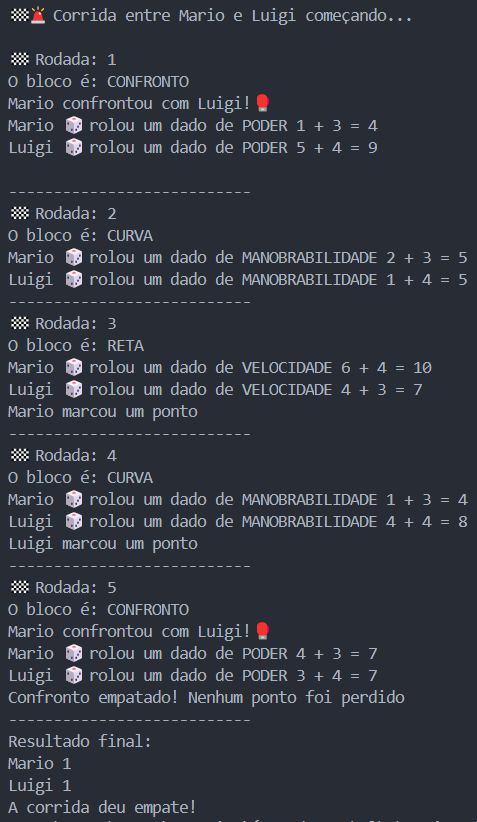
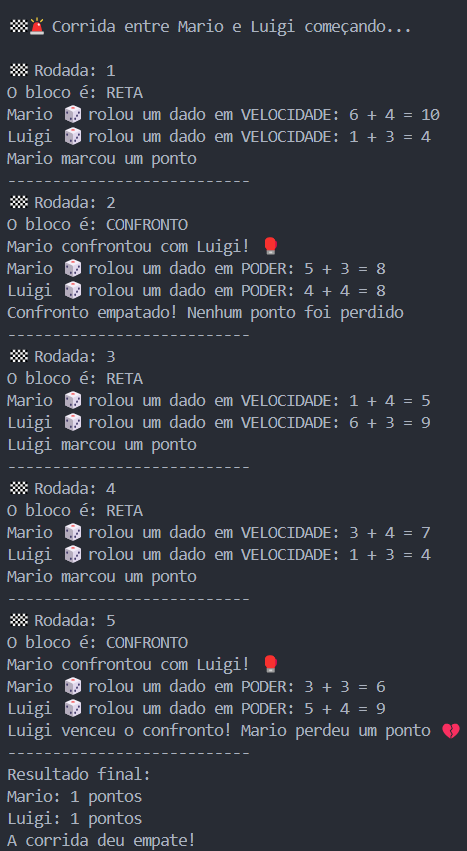
Update assets/example.png image

diff --git a/src/index.js b/src/index.js
@@ -19,14 +19,14 @@ async function rollDice() {
 }
 
 async function getRandomBlock() {
-    const radom = Math.random()
+    const random = Math.random() // Corrigido para "random"
     let result
 
     switch (true) {
-        case radom < 0.33:
+        case random < 0.33:
             result = "RETA"
             break
-        case radom < 0.66:
+        case random < 0.66:
             result = "CURVA"
             break
         default:
@@ -37,7 +37,7 @@ async function getRandomBlock() {
 }
 
 async function logRollResult(characterName, block, diceResult, attribute) {
-    console.log(`${characterName} 🎲 rolou um dado de ${block} ${diceResult} + ${attribute} = ${diceResult + attribute}`)
+    console.log(`${characterName} 🎲 rolou um dado em ${block}: ${diceResult} + ${attribute} = ${diceResult + attribute}`)
 }
 
 async function playRaceEngine(character1, character2) {
@@ -60,41 +60,39 @@ async function playRaceEngine(character1, character2) {
             totalTesteSkill1 = diceResult1 + character1.VELOCIDADE
             totalTesteSkill2 = diceResult2 + character2.VELOCIDADE
 
-            await logRollResult(player1.NOME, "VELOCIDADE", diceResult1, character1.VELOCIDADE)
-            await logRollResult(player2.NOME, "VELOCIDADE", diceResult2, character2.VELOCIDADE)
+            await logRollResult(character1.NOME, "VELOCIDADE", diceResult1, character1.VELOCIDADE)
+            await logRollResult(character2.NOME, "VELOCIDADE", diceResult2, character2.VELOCIDADE)
         }
 
         if (block === "CURVA") {
             totalTesteSkill1 = diceResult1 + character1.MANOBRABILIDADE
             totalTesteSkill2 = diceResult2 + character2.MANOBRABILIDADE
 
-            await logRollResult(player1.NOME, "MANOBRABILIDADE", diceResult1, character1.MANOBRABILIDADE)
-            await logRollResult(player2.NOME, "MANOBRABILIDADE", diceResult2, character2.MANOBRABILIDADE)
+            await logRollResult(character1.NOME, "MANOBRABILIDADE", diceResult1, character1.MANOBRABILIDADE)
+            await logRollResult(character2.NOME, "MANOBRABILIDADE", diceResult2, character2.MANOBRABILIDADE)
         }
 
         if (block === "CONFRONTO") {
             const powerResult1 = diceResult1 + character1.PODER
             const powerResult2 = diceResult2 + character2.PODER
 
-            console.log(`${character1.NOME} confrontou com ${character2.NOME}!🥊`)
+            console.log(`${character1.NOME} confrontou com ${character2.NOME}! 🥊`)
 
-            await logRollResult(player1.NOME, "PODER", diceResult1, character1.PODER)
-            await logRollResult(player2.NOME, "PODER", diceResult2, character2.PODER)
+            await logRollResult(character1.NOME, "PODER", diceResult1, character1.PODER)
+            await logRollResult(character2.NOME, "PODER", diceResult2, character2.PODER)
 
             if (powerResult1 > powerResult2 && character2.PONTOS > 0) {
                 console.log(`${character1.NOME} venceu o confronto! ${character2.NOME} perdeu um ponto 💔`)
                 character2.PONTOS--
-            }
-
-            if (powerResult2 > powerResult1 && character1.PONTOS > 0) {
+            } else if (powerResult2 > powerResult1 && character1.PONTOS > 0) {
                 console.log(`${character2.NOME} venceu o confronto! ${character1.NOME} perdeu um ponto 💔`)
                 character1.PONTOS--
+            } else if (powerResult1 === powerResult2) {
+                console.log("Confronto empatado! Nenhum ponto foi perdido")
             }
-
-            console.log(powerResult2 === powerResult1 ? "Confronto empatado! Nenhum ponto foi perdido" : "")
         }
 
-        // Verificando vencedor
+        // Verificando vencedor do round
         if (totalTesteSkill1 > totalTesteSkill2) {
             console.log(`${character1.NOME} marcou um ponto`)
             character1.PONTOS++
@@ -109,14 +107,14 @@ async function playRaceEngine(character1, character2) {
 
 async function declareWinner(character1, character2) {
     console.log("Resultado final:")
-    console.log(`${character1.NOME} ${character1.PONTOS}`)
-    console.log(`${character2.NOME} ${character2.PONTOS}`)
+    console.log(`${character1.NOME}: ${character1.PONTOS} pontos`)
+    console.log(`${character2.NOME}: ${character2.PONTOS} pontos`)
 
-    if(character1.PONTOS > character2.PONTOS){
-        console.log(`\n ${character1.NOME} venceu a corrida!`)
-    }else if(character2.PONTOS > character1.PONTOS){
-        console.log(`\n ${character2.NOME} venceu a corrida!`)
-    }else{
+    if (character1.PONTOS > character2.PONTOS) {
+        console.log(`\n ${character1.NOME} venceu a corrida! 🏆`)
+    } else if (character2.PONTOS > character1.PONTOS) {
+        console.log(`\n ${character2.NOME} venceu a corrida! 🏆`)
+    } else {
         console.log("A corrida deu empate!")
     }
 }
